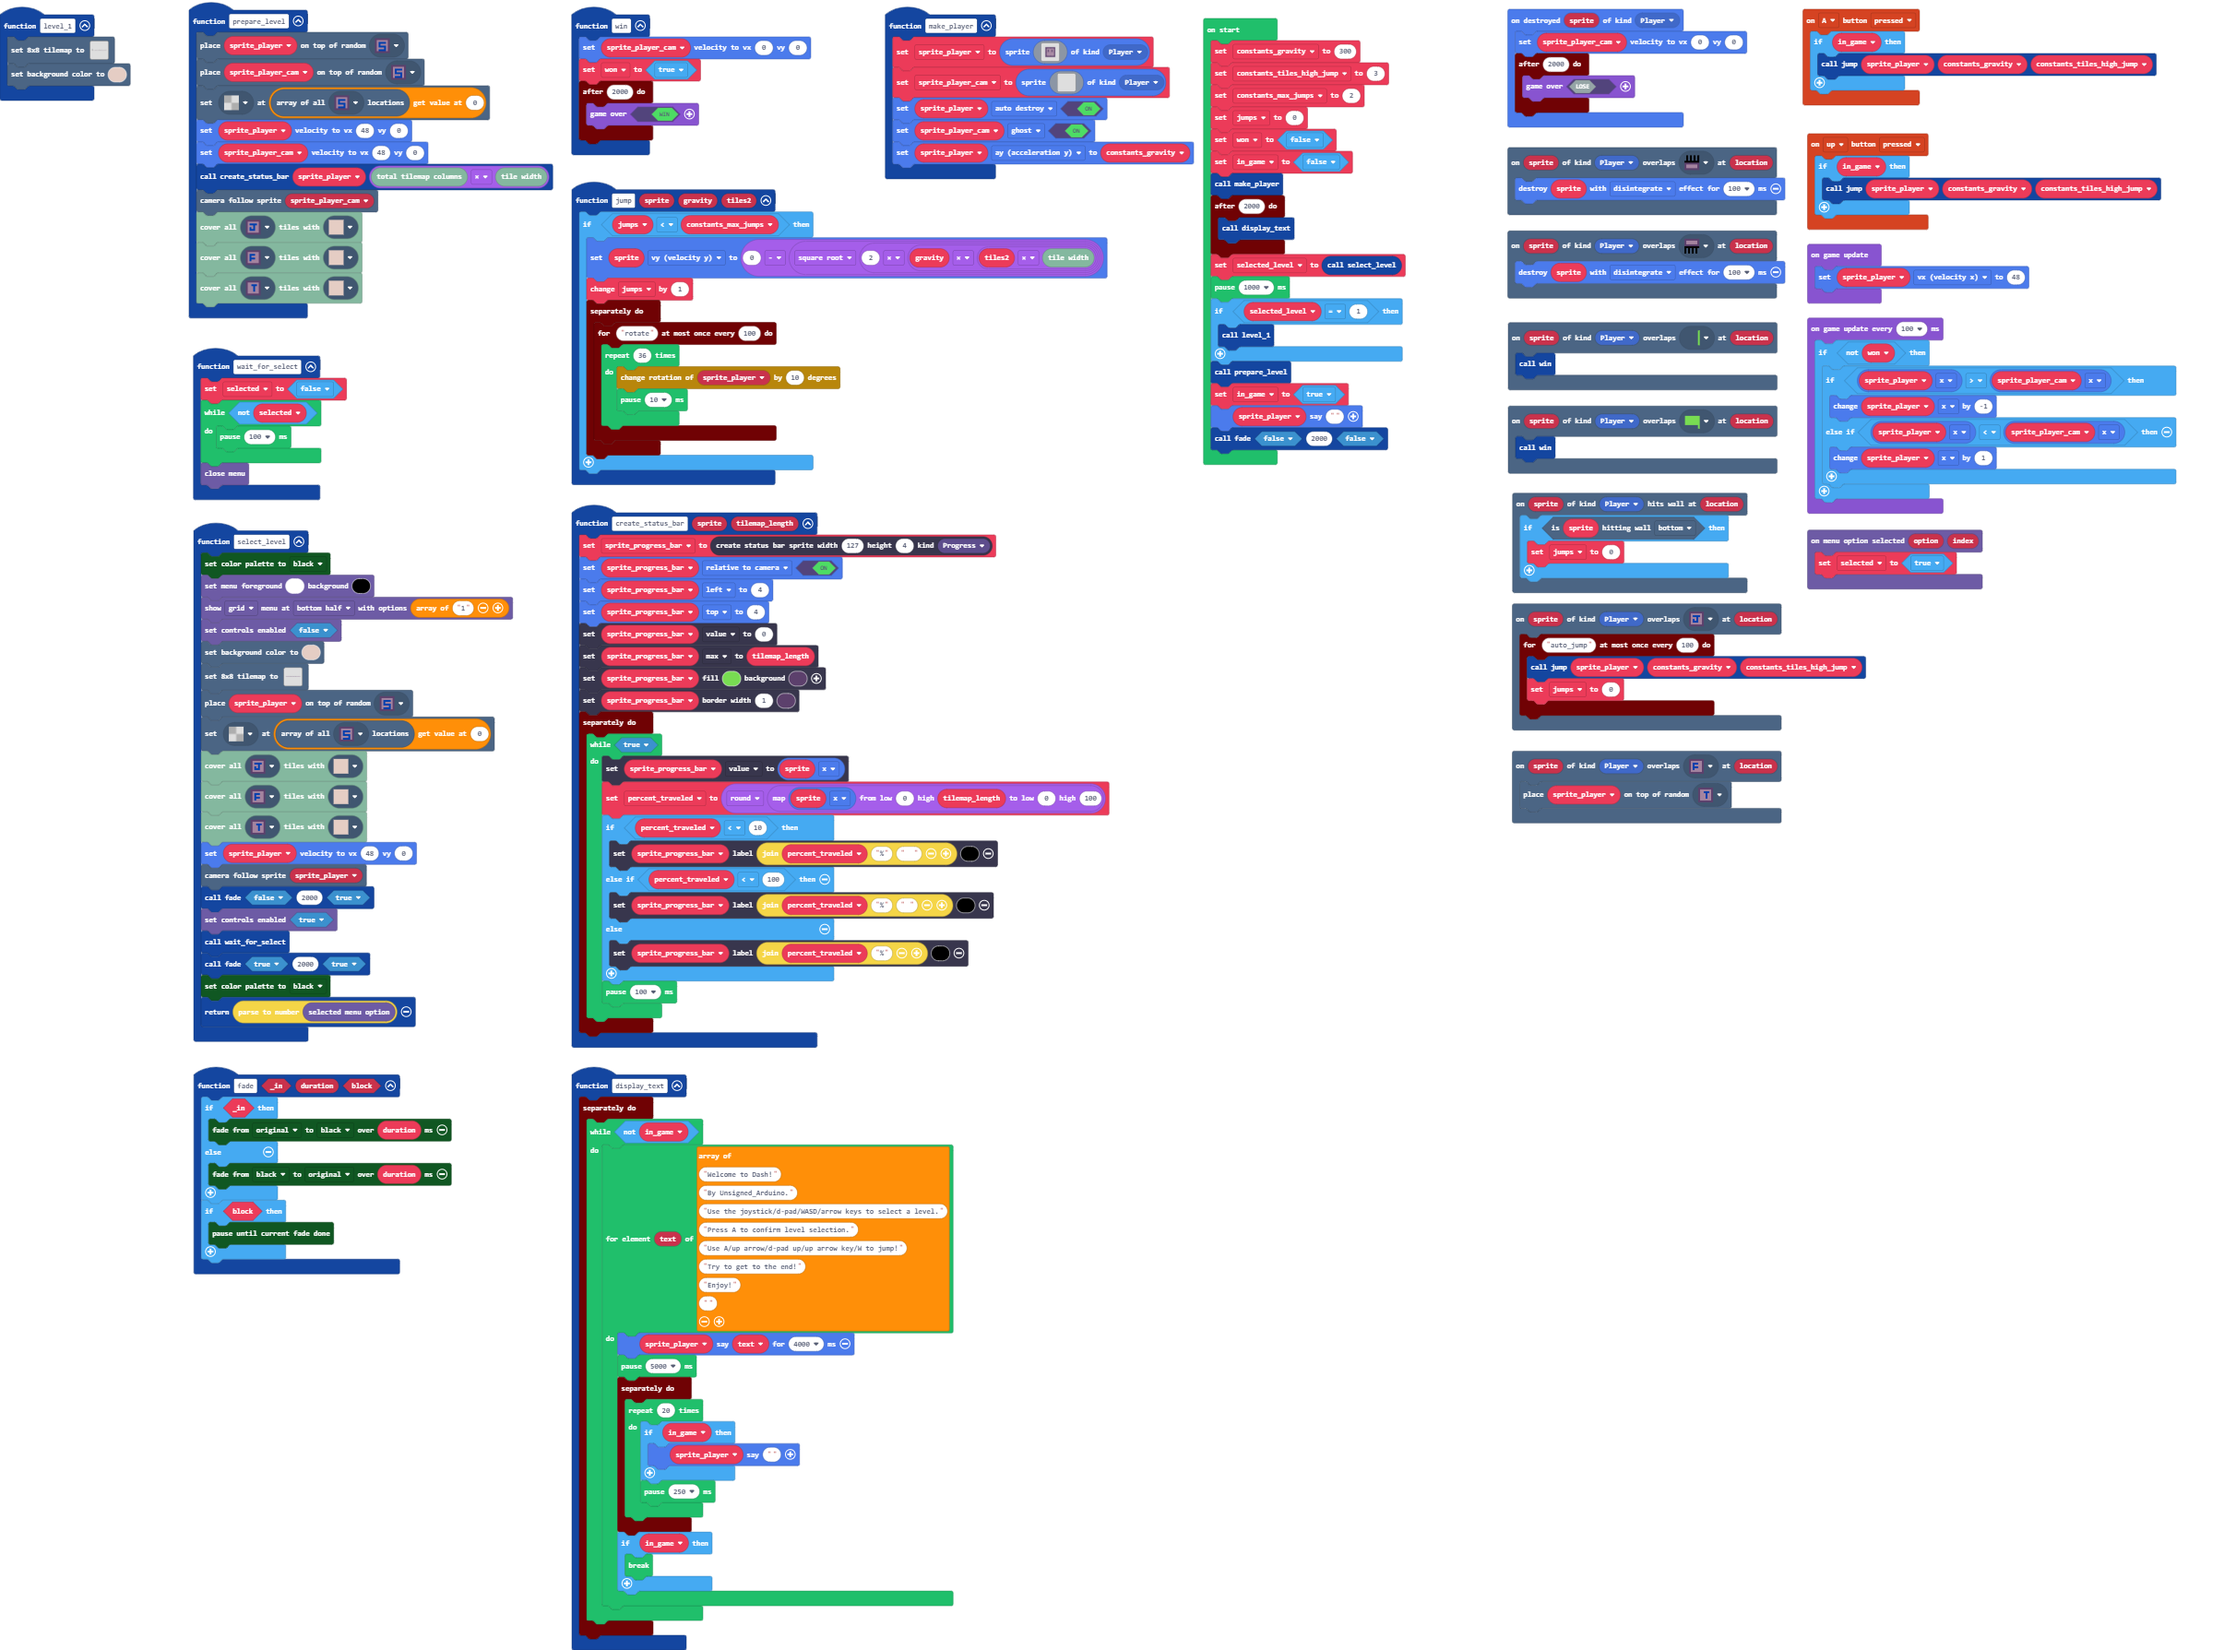
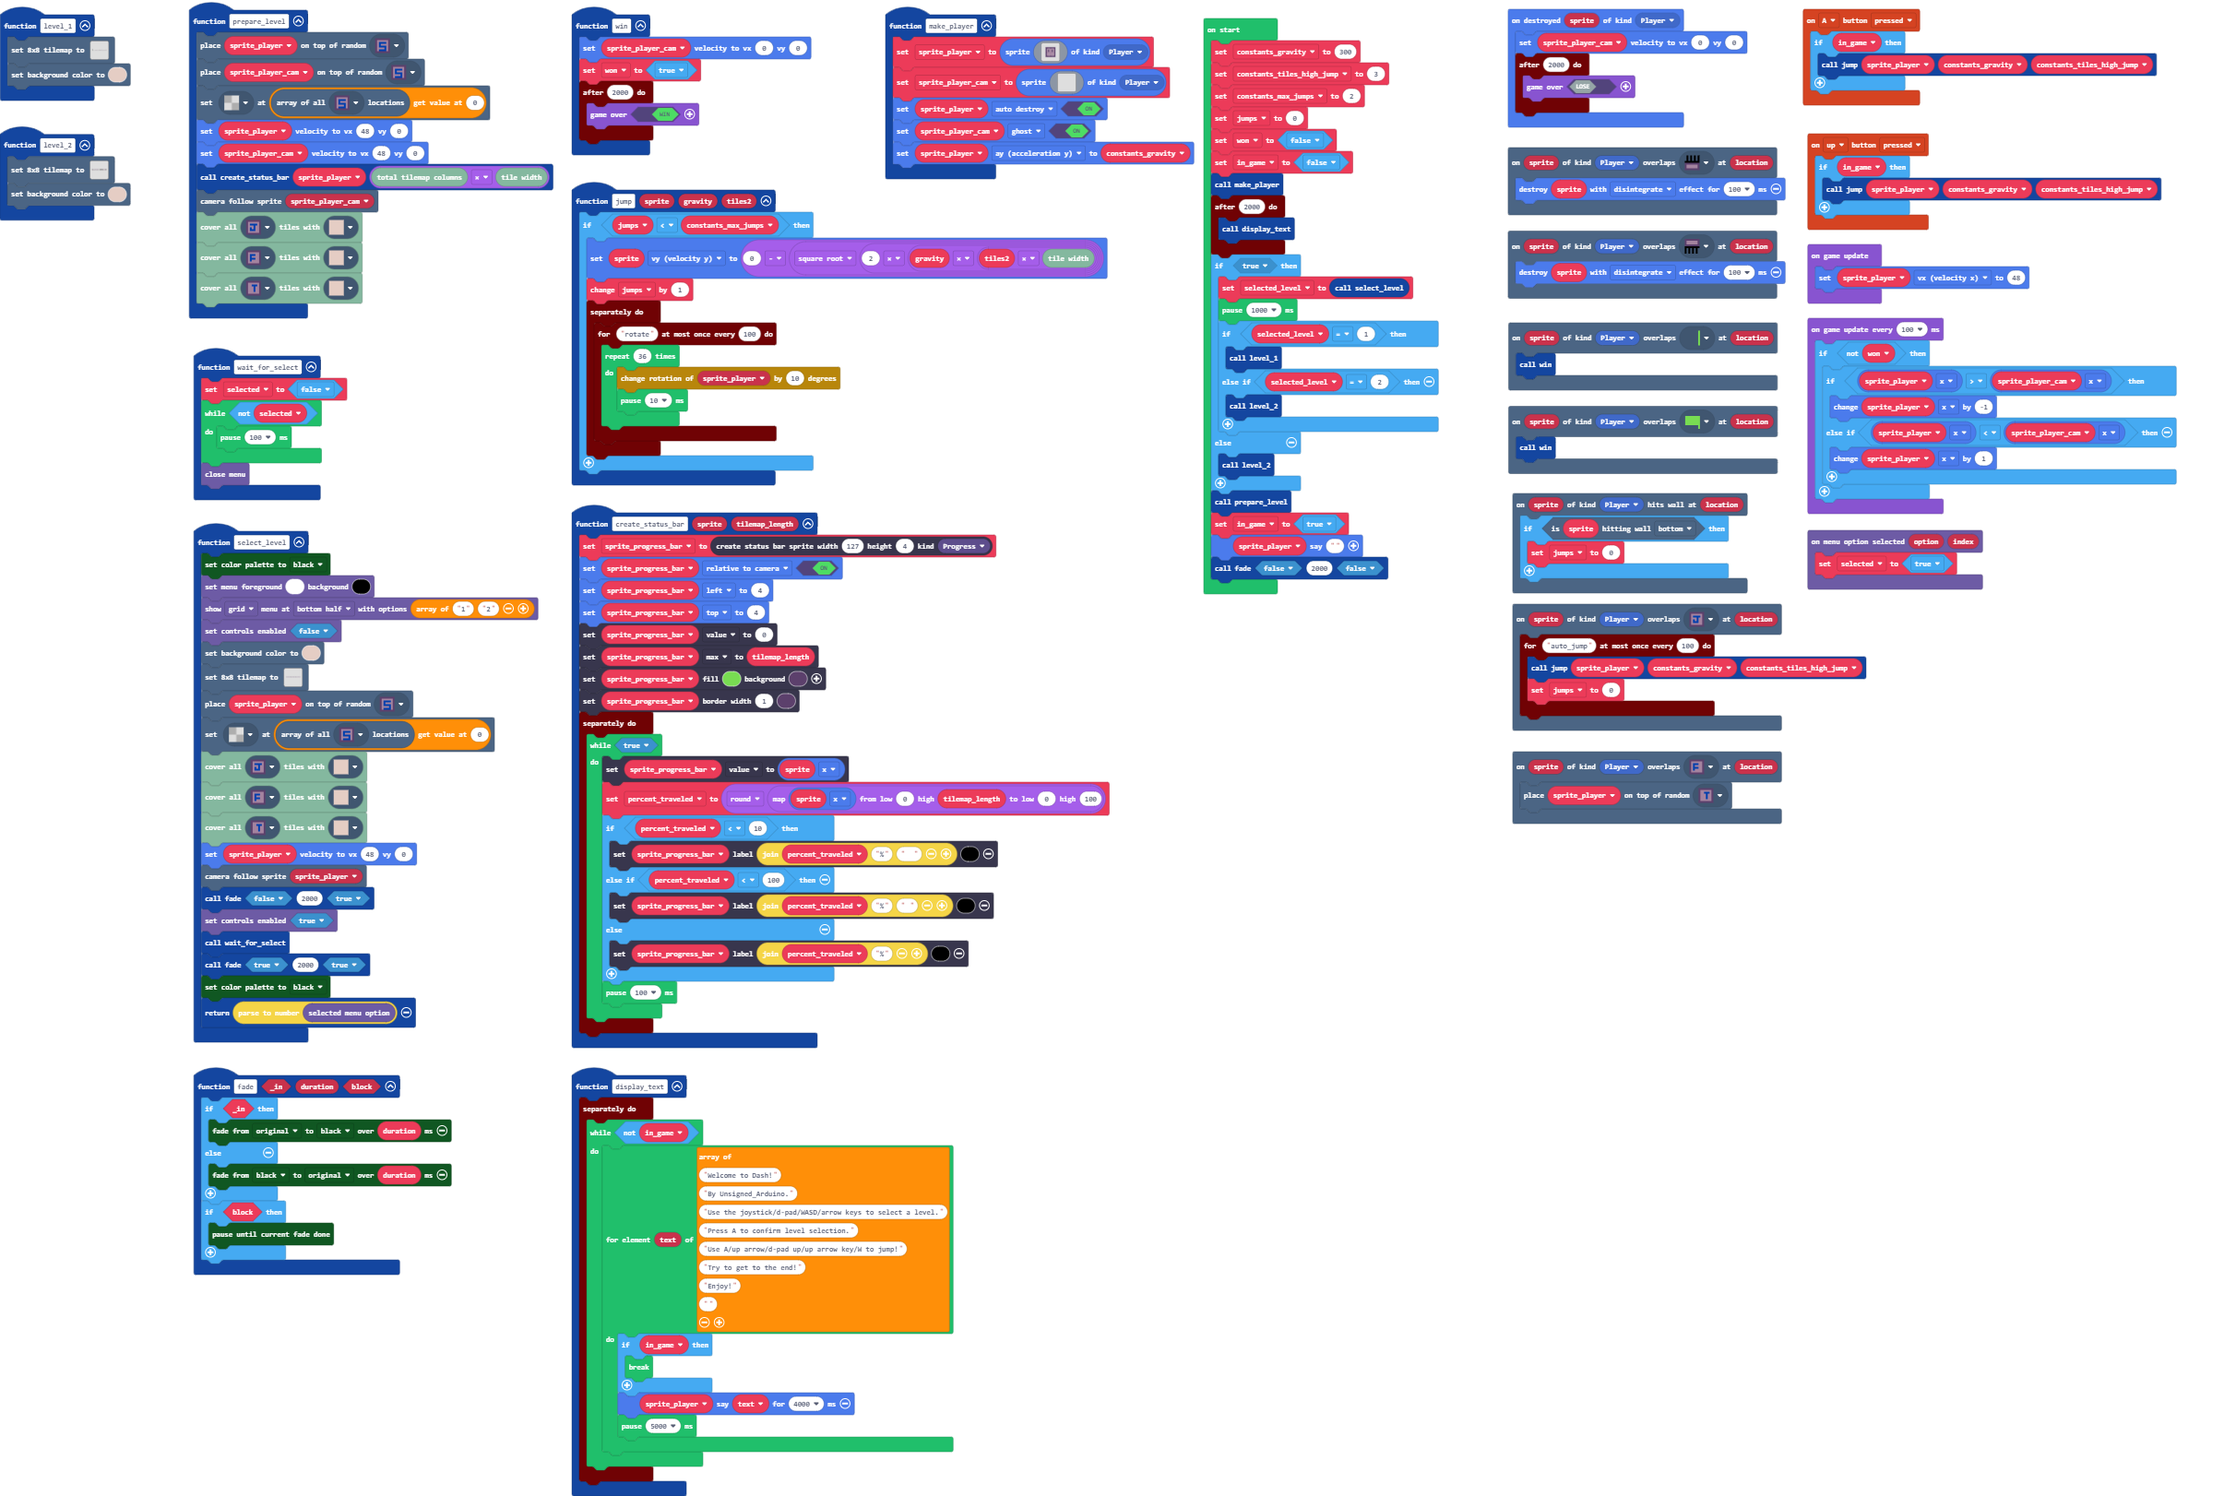
Make level 2

Changed region(s): [[0.0, 0.0, 0.9954, 1.0]]

diff --git a/tilemap.g.ts b/tilemap.g.ts
@@ -86,6 +86,62 @@ namespace myTiles {
 . . . . . . . . . . . . . . . . 
 . . . . . . . . . . . . . . . . 
 `, [myTiles.transparency8], TileScale.Eight);
+            case "level4":
+            case "level4":return tiles.createTilemap(hex`1000100000000000000000000000000000000000000000000000000000000000000000000000000000000000000000000000000000000000000000000000000000000000000000000000000000000000000000000000000000000000000000000000000000000000000000000000000000000000000000000000000000000000000000000000000000000000000000000000000000000000000000000000000000000000000000000000000000000000000000000000000000000000000000000000000000000000000000000000000000000000000000000000000000000000000000000000000000000000000000000000000000000000000000000000000000000000`, img`
+. . . . . . . . . . . . . . . . 
+. . . . . . . . . . . . . . . . 
+. . . . . . . . . . . . . . . . 
+. . . . . . . . . . . . . . . . 
+. . . . . . . . . . . . . . . . 
+. . . . . . . . . . . . . . . . 
+. . . . . . . . . . . . . . . . 
+. . . . . . . . . . . . . . . . 
+. . . . . . . . . . . . . . . . 
+. . . . . . . . . . . . . . . . 
+. . . . . . . . . . . . . . . . 
+. . . . . . . . . . . . . . . . 
+. . . . . . . . . . . . . . . . 
+. . . . . . . . . . . . . . . . 
+. . . . . . . . . . . . . . . . 
+. . . . . . . . . . . . . . . . 
+`, [myTiles.transparency8], TileScale.Eight);
+            case "level5":
+            case "level5":return tiles.createTilemap(hex`1000100000000000000000000000000000000000000000000000000000000000000000000000000000000000000000000000000000000000000000000000000000000000000000000000000000000000000000000000000000000000000000000000000000000000000000000000000000000000000000000000000000000000000000000000000000000000000000000000000000000000000000000000000000000000000000000000000000000000000000000000000000000000000000000000000000000000000000000000000000000000000000000000000000000000000000000000000000000000000000000000000000000000000000000000000000000000`, img`
+. . . . . . . . . . . . . . . . 
+. . . . . . . . . . . . . . . . 
+. . . . . . . . . . . . . . . . 
+. . . . . . . . . . . . . . . . 
+. . . . . . . . . . . . . . . . 
+. . . . . . . . . . . . . . . . 
+. . . . . . . . . . . . . . . . 
+. . . . . . . . . . . . . . . . 
+. . . . . . . . . . . . . . . . 
+. . . . . . . . . . . . . . . . 
+. . . . . . . . . . . . . . . . 
+. . . . . . . . . . . . . . . . 
+. . . . . . . . . . . . . . . . 
+. . . . . . . . . . . . . . . . 
+. . . . . . . . . . . . . . . . 
+. . . . . . . . . . . . . . . . 
+`, [myTiles.transparency16], TileScale.Sixteen);
+            case "level_2":
[1 lines of base64/hex data omitted]
+222222222222............................2..........2...................2.......2..........22222222222222222222222222222222222222222222222222222222222....................................2222222222.....
+222222222222............................2..............................2.......2..........2..............22222222222222222222222222222..........22222....................................2222222222.....
+22222222222.............................2..............................2.......2..........2................222222222222222222222222222..........22222....................................2222222222.....
+2222222222..............................2..............................2.......2.............................222222222222222222.........2222.............................................2222222222.....
+222222222..............................................................2.......2...............................2222222222222222.........222...2222222...........................22.......2222222222.....
+.......................................................................2.........................................2222222.........2222222222...2222222........................22..........222222...2.....
+...................................................2...................2...........................................22222.........222222222...22222222.....................22.............222222.........
+................................................22.2.22..............................................................222...222222222222222...22222222..................22................222222..2222222
+.............................................22....2....22.............................22.2................................22......222222...222222222...............22...................222222..22.....
+........................................2.22.......2.......22.......................22....2......................22222222..22........2222...222222222............22..............................22.....
+222222222............................22.2..........2..........22...............2.22.......2....................2222222222......22......2...2222222222.........22...................2222222222222222.....
+222222222222....22....22....22....22....2..........2.............22.........22.2..........2..................222222222222......2222........2222222222.222222.............................2222222222.....
+22222222222..22....22....22....22.......2..........2................22.2.22....2..........2................22222222222222222222222222.....22222222222....................................2222222222.....
+222222222222............................2..........2...................2.......2..........2..............222222222222222222222222222222...22222222222....................................2222222222.....
+222222222222............................2..........2...................2.......2..........22222222222222222222222222222222222222222222222222222222222....................................2222222222.....
+`, [myTiles.transparency8,myTiles.tile1,myTiles.tile8,myTiles.tile2,myTiles.tile3,myTiles.tile7,myTiles.tile4,myTiles.tile5], TileScale.Eight);
         }
         return null;
     })

diff --git a/main.ts b/main.ts
@@ -24,19 +24,11 @@ function display_text () {
             "Enjoy!",
             ""
             ]) {
-                sprite_player.say(text, 4000)
-                pause(5000)
-                timer.background(function () {
-                    for (let index = 0; index < 20; index++) {
-                        if (in_game) {
-                            sprite_player.say("")
-                        }
-                        pause(250)
-                    }
-                })
                 if (in_game) {
                     break;
                 }
+                sprite_player.say(text, 4000)
+                pause(5000)
             }
         }
     })
@@ -107,6 +99,10 @@ scene.onOverlapTile(SpriteKind.Player, assets.tile`flag_top`, function (sprite, 
 scene.onOverlapTile(SpriteKind.Player, assets.tile`from`, function (sprite, location) {
     tiles.placeOnRandomTile(sprite_player, assets.tile`to0`)
 })
+function level_2 () {
+    tiles.setSmallTilemap(tilemap`level_2`)
+    scene.setBackgroundColor(13)
+}
 function make_player () {
     sprite_player = sprites.create(assets.image`character`, SpriteKind.Player)
     sprite_player_cam = sprites.create(assets.image`camera_reference`, SpriteKind.Player)
@@ -122,7 +118,7 @@ function select_level () {
     color.Black
     )
     blockMenu.setColors(1, 15)
-    blockMenu.showMenu(["1"], MenuStyle.Grid, MenuLocation.BottomHalf)
+    blockMenu.showMenu(["1", "2"], MenuStyle.Grid, MenuLocation.BottomHalf)
     blockMenu.setControlsEnabled(false)
     scene.setBackgroundColor(13)
     tiles.setSmallTilemap(tilemap`demo`)
@@ -191,6 +187,7 @@ let percent_traveled = 0
 let sprite_progress_bar: StatusBarSprite = null
 let sprite_player_cam: Sprite = null
 let sprite_player: Sprite = null
+let selected_level = 0
 let in_game = false
 let won = false
 let jumps = 0
@@ -207,10 +204,16 @@ make_player()
 timer.after(2000, function () {
     display_text()
 })
-let selected_level = select_level()
-pause(1000)
-if (selected_level == 1) {
-    level_1()
+if (true) {
+    selected_level = select_level()
+    pause(1000)
+    if (selected_level == 1) {
+        level_1()
+    } else if (selected_level == 2) {
+        level_2()
+    }
+} else {
+    level_2()
 }
 prepare_level()
 in_game = true
